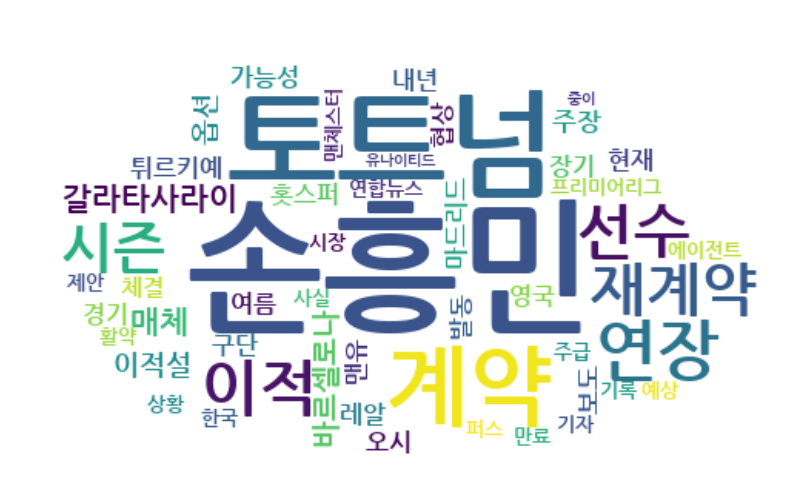
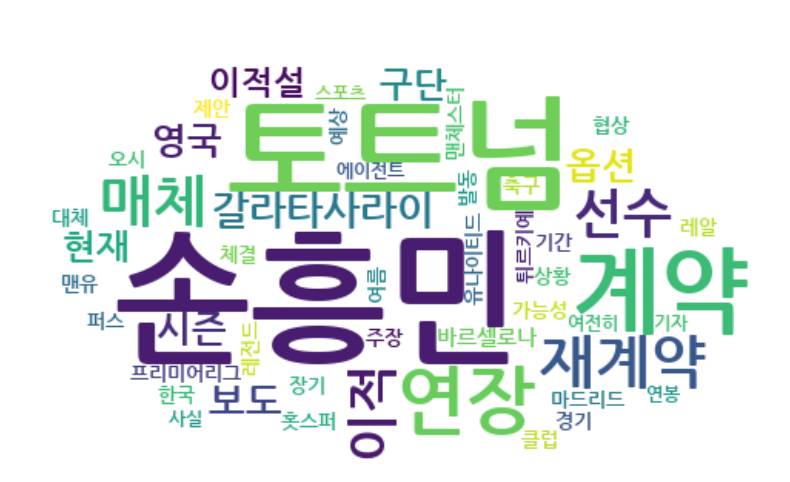
.py 코드( .ipynb -> .py 변환) 추가

diff --git a/flask/word_cloud/word_cloud.py b/flask/word_cloud/word_cloud.py
@@ -1,0 +1,213 @@
+# 1. 표준 라이브러리
+import os
+import sys
+import urllib.request
+import time
+from collections import Counter
+
+# 2. 외부 라이브러리
+import pandas as pd
+import matplotlib.pyplot as plt
+import numpy as np
+from selenium import webdriver
+from selenium.webdriver.chrome.service import Service
+from selenium.common.exceptions import NoSuchElementException
+from selenium.webdriver.support.ui import WebDriverWait
+from selenium.webdriver.common.by import By
+from konlpy.tag import Okt
+from wordcloud import WordCloud
+import json
+
+# 3. 로컬 라이브러리
+from PIL import Image
+
+# 발급받은 naver API id / secret
+client_id = "********************"
+client_secret = "***********"
+
+quote = input("검색어를 입력해주세요.: ") # 검색어 입력받기
+print("[INFO] 입력받은 검색어: {}".format(quote))
+encText = urllib.parse.quote(quote)
+
+display="50"  # 표시할 검색 결과 개수 설정
+sort="sim"  # 관련성순
+url = "https://openapi.naver.com/v1/search/news?query=" + encText + "&display="+ display + "&sort="+sort # JSON 결과
+print("[INFO] 네이버 API 요청 URL 생성 완료.")
+
+request = urllib.request.Request(url)
+request.add_header("X-Naver-Client-Id", client_id)
+request.add_header("X-Naver-Client-Secret", client_secret)
+response = urllib.request.urlopen(request)
+rescode = response.getcode()
+
+if rescode == 200:
+    response_body = response.read()
+    body = response_body.decode('utf-8')
+    print("[INFO] 네이버 API 요청 성공.")
+    
+    # JSON 데이터 파싱
+    data = json.loads(body)
+    total_results = data.get('total', 0)  # 'total' 키에서 값 가져오기
+    print(f"[INFO] 총 검색 결과 개수: {total_results}")
+else:
+    print("[ERROR] 네이버 API 요청 실패. Error Code:", rescode)
+
+# body 나누기
+list1 = body.split('\n\t\t{\n\t\t\t')
+print("[INFO] 검색 결과 JSON 데이터 분리 완료.")
+
+# 제목, 링크 뽑기
+import re
+titles = []
+links = []
+for i in list1:
+    title = re.findall('"title":"(.*?)",\n\t\t\t"originallink"', i)
+    link = re.findall('"link":"(.*?)",\n\t\t\t"description"', i)
+    titles.append(title)
+    links.append(link)
+
+# 2차원 리스트를 1차원으로 변환
+titles = [r for i in titles for r in i]
+links = [r for i in links for r in i]
+print("[INFO] 뉴스 제목과 링크 추출 완료. 총 {}개 제목 수집.".format(len(titles)))
+
+# 링크 다듬기 (필요없는 부분 제거 및 수정)
+news_links = []
+for i in links:
+    a = i.replace('\\', '')
+    b = a.replace('?Redirect=Log&logNo=', '/')
+    news_links.append(b)
+print("[INFO] 뉴스 링크 정리 완료.")
+
+# 다양한 뉴스 본문 CSS 선택자 리스트
+content_selectors = [
+    'div.viewer',
+    'div._article_content',
+    'div.article_content',
+    'div.news_contents',
+    'div.cont_view',
+    'div.article-body',
+    'div.article_body',
+    'div.arti-txt', 
+    'div.art_body',
+    'article.story-news',
+    'div.article-view-content-div',
+    'article'  # 가장 일반적인 article 태그
+]
+
+# 현재 실행 중인 파일의 절대 경로 가져오기
+current_dir = os.path.dirname(os.path.abspath(__file__))
+
+# chromedriver 경로 설정 
+chromedriver_name = 'chromedriver.exe' 
+chromedriver_path = os.path.join(current_dir, chromedriver_name)
+service = Service(chromedriver_path) 
+
+# WebDriver 초기화 
+driver = webdriver.Chrome(service=service)
+wait = WebDriverWait(driver, 3)
+print("[INFO] Selenium WebDriver 초기화 완료.")
+
+# 뉴스 링크 하나씩 불러서 크롤링 
+contents = [] 
+for idx, i in enumerate(news_links): 
+    print("\r[INFO] {}번째 뉴스 링크 크롤링 중...".format(idx + 1), end="")
+    driver.get(i)  # 뉴스 링크 하나씩 불러오기 
+    time.sleep(1) 
+
+    # 다양한 선택자로 본문 찾기
+    content = None
+    for selector in content_selectors:
+        try:
+            content = driver.find_element(By.CSS_SELECTOR, selector).text
+            if content and len(content.strip()) > 0:
+                contents.append(content)
+                break  # 성공적으로 본문을 찾았다면 반복 중단
+        except NoSuchElementException:
+            continue
+
+    # 본문을 찾지 못한 경우 처리
+    if not content:
+        contents.append("")
+
+print("[INFO] 뉴스 본문 크롤링 완료.")
+driver.quit()  # 창닫기 
+
+# 제목 및 본문 txt에 저장
+total_contents = titles + contents
+print("[INFO] 뉴스 제목 및 본문 저장 중...")
+text = open("news_text.txt", 'w', encoding='utf-8') 
+for i in total_contents:
+    text.write(i)
+text.close()
+print("[INFO] 뉴스 제목 및 본문 저장 완료.")
+
+# 제목, 블로그링크, 본문내용 Dataframe으로 만들기
+df = pd.DataFrame({'제목': titles, '링크': news_links, '내용': contents})
+print("[INFO] DataFrame 생성 완료.")
+
+news_text = open('news_text.txt', 'rt', encoding='UTF-8').read()
+
+# Okt 함수를 이용해 형태소 분석
+okt = Okt()
+print("[INFO] 형태소 분석 시작...")
+line = []
+
+line = okt.pos(news_text)
+
+n_adj = []
+# 명사 또는 형용사인 단어만 n_adj에 넣어주기
+for word, tag in line:
+    if tag in ['Noun', 'Adjective']:
+        n_adj.append(word)
+
+# 명사 또는 형용사만 필터링 + 불용어 제거 + 최소 길이 조건
+stopwords = {'라며', '그리고', '그러나', '하지만', '에서', '에게', '중에', '위해', '조차', '까지', '어디', '무엇', '누구', '어느', '있다', '있는', '있습니다', '최근', '이번', '시간', '지난', '소식', '통해', '사진', '무단', '재', '및', '배포', '금지'}
+n_adj = [word for word, tag in line if tag in ['Noun', 'Adjective'] and len(word) > 1 and word not in stopwords]
+
+# 단어 빈도수 계산
+word_count = Counter(n_adj)
+print("[INFO] 단어 빈도수 계산 완료.")
+
+# 상위 50개 단어 출력
+tags = word_count.most_common(50)
+print("[INFO] 상위 50개 단어 추출 완료.")
+
+# 워드 클라우드 모양 이미지 경로 설정
+img_name = 'cloud.png'
+img_path = os.path.join(current_dir, img_name)
+
+# 이미지 추가(워드클라우드 모양 설정) - cloud
+mask = Image.new("RGBA", (500, 300), (255, 255, 255)) #(2555,2575)는 사진 크기, (255,255,255)는 색을의미
+image = Image.open(img_path).convert("RGBA")
+x, y = image.size
+mask.paste(image, (0, 0, x, y), image)
+mask = np.array(mask)
+
+print("[INFO] 워드클라우드 생성 중...")
+
+# font 경로 설정
+font_name = 'NanumGothicBold.ttf'
+font_path = os.path.join(current_dir, font_name)
+
+wordcloud = WordCloud(
+    font_path=font_path,  # 한글 폰트 파일 경로
+    width=800, 
+    height=400, 
+    mask=mask,
+    background_color='white'
+).generate_from_frequencies(dict(tags))
+
+# WordCloud 표시
+plt.figure(figsize=(12, 6))
+plt.imshow(wordcloud, interpolation='bilinear')
+plt.axis("off")  # 축 제거
+
+# cloud 이미지 저장경로 설정
+output_image_name = '{}_cloud.png'.format(quote)
+output_image_path = os.path.join(current_dir, output_image_name)
+
+# cloud 이미지 저장
+plt.savefig(output_image_path, bbox_inches='tight')
+print("[INFO] 워드클라우드 저장 완료. 파일 경로: {}".format(output_image_path))
+plt.show()
